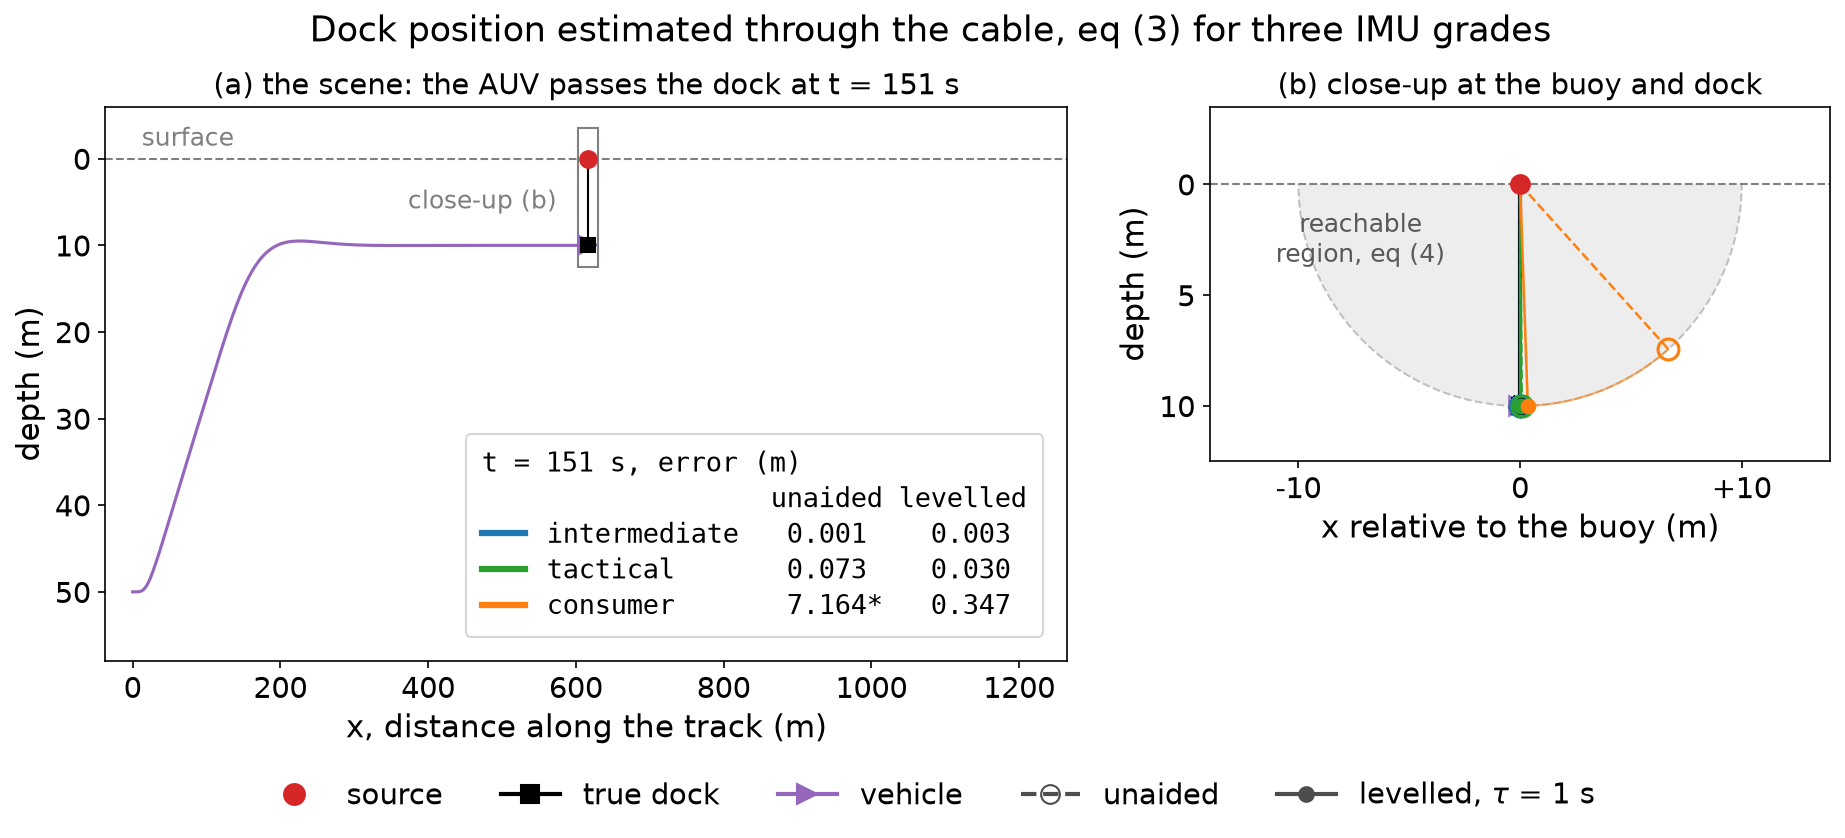
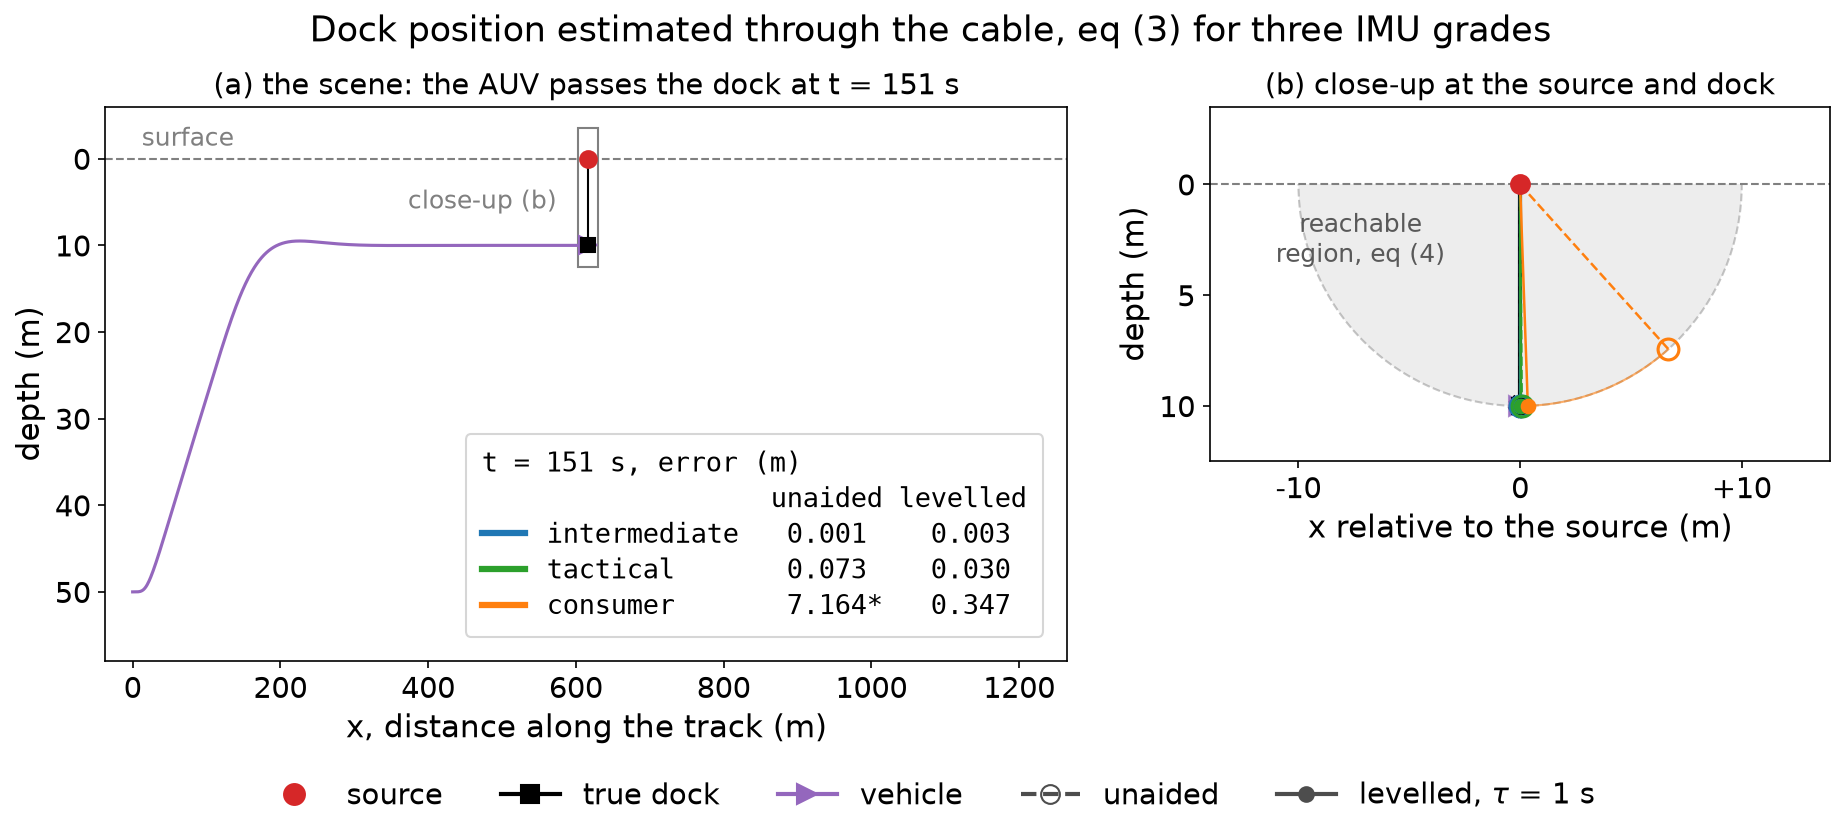
fix figures

Changed region(s): [[0.6797, 0.0931, 0.9577, 0.1241], [0.7106, 0.6205, 0.9577, 0.6516]]

diff --git a/studies/dockScenario.py b/studies/dockScenario.py
@@ -289,14 +289,14 @@ def sceneFigure(data):
     axZoom.set_ylim(*zoomY)
     depthAxis(axZoom, 5)
 
-    # Ticks at whole multiples of 5 m from the buoy, rather than wherever the
-    # absolute track position happens to put them
+    # Ticks at whole multiples of 5 m from the source, rather than wherever
+    # the absolute track position happens to put them
     axZoom.xaxis.set_major_locator(
         FixedLocator(xS + np.arange(-10, 11, 10)))
     axZoom.xaxis.set_major_formatter(
         FuncFormatter(lambda v, pos: "%+.0f" % (v - xS)
                       if abs(v - xS) > 0.5 else "0"))
-    axZoom.set_xlabel("x relative to the buoy (m)")
+    axZoom.set_xlabel("x relative to the source (m)")
 
     axZoom.axhline(0, color="grey", linestyle="--", linewidth=1)
 
@@ -335,7 +335,7 @@ def sceneFigure(data):
 
     vehicleZoom, = axZoom.plot([], [], ">", color=colour["vehicle"],
                                markersize=10, alpha=0.75, zorder=4)
-    axZoom.set_title("(b) close-up at the buoy and dock", fontsize=14)
+    axZoom.set_title("(b) close-up at the source and dock", fontsize=14)
 
     handles = [
         Line2D([], [], marker="o", color=colour["buoy"], linestyle="None",

diff --git a/CLAUDE.md b/CLAUDE.md
@@ -468,6 +468,13 @@ signs they would partly cancel, so adding is the worst case.
   say is in the proposal's captions and text.
 
 Plotting conventions, worth reusing:
+- **The figures call that node the source, the code calls it the buoy**
+  (Jenia, 2026-10-20: "i called the bouy in the proposel \"Source\""). The
+  proposal's eq (2) names it `p_S`, so every label a reader sees says
+  source: the legend entry, the close-up's title and its x axis. In the
+  simulation it stays the `Buoy` body, so `colour["buoy"]`, `log["buoy"]`
+  and `buoy_eta0` are unchanged — renaming those would touch
+  `Main_Project`, `mainLoop` and the CSV columns for a wording change.
 - Height (`−z`) goes on the vertical axis, with tick labels shown as
   positive depth, so deeper is lower on the page.
 - One colour per thing across every figure: truth black, vehicle purple,
